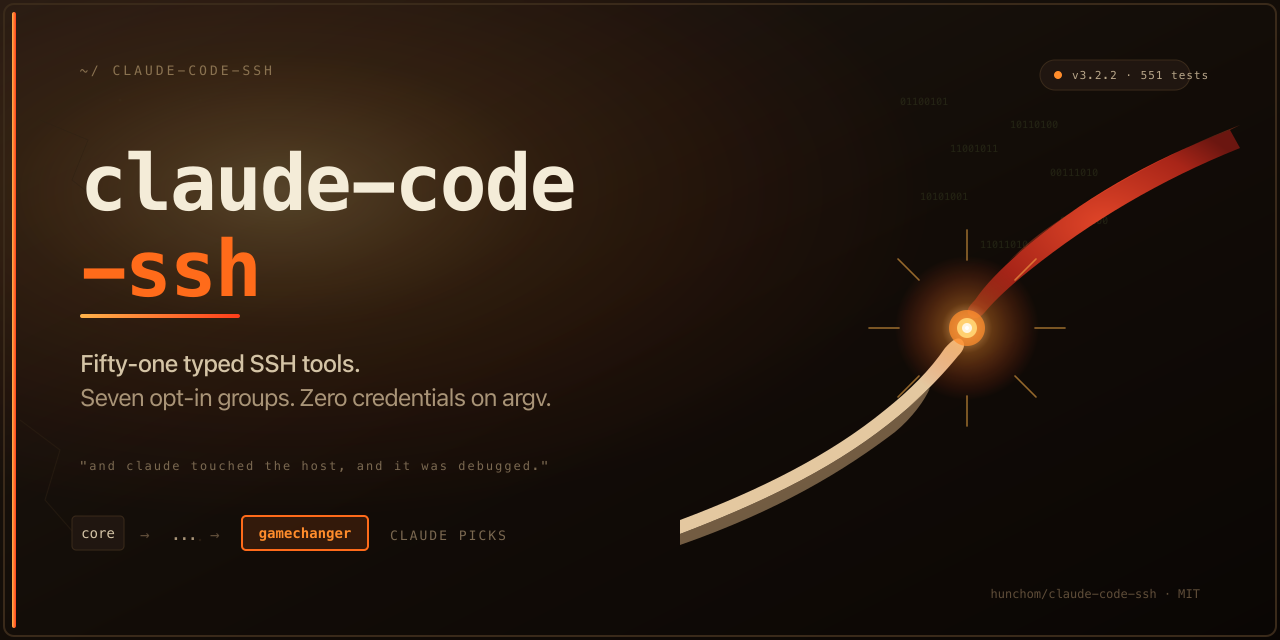
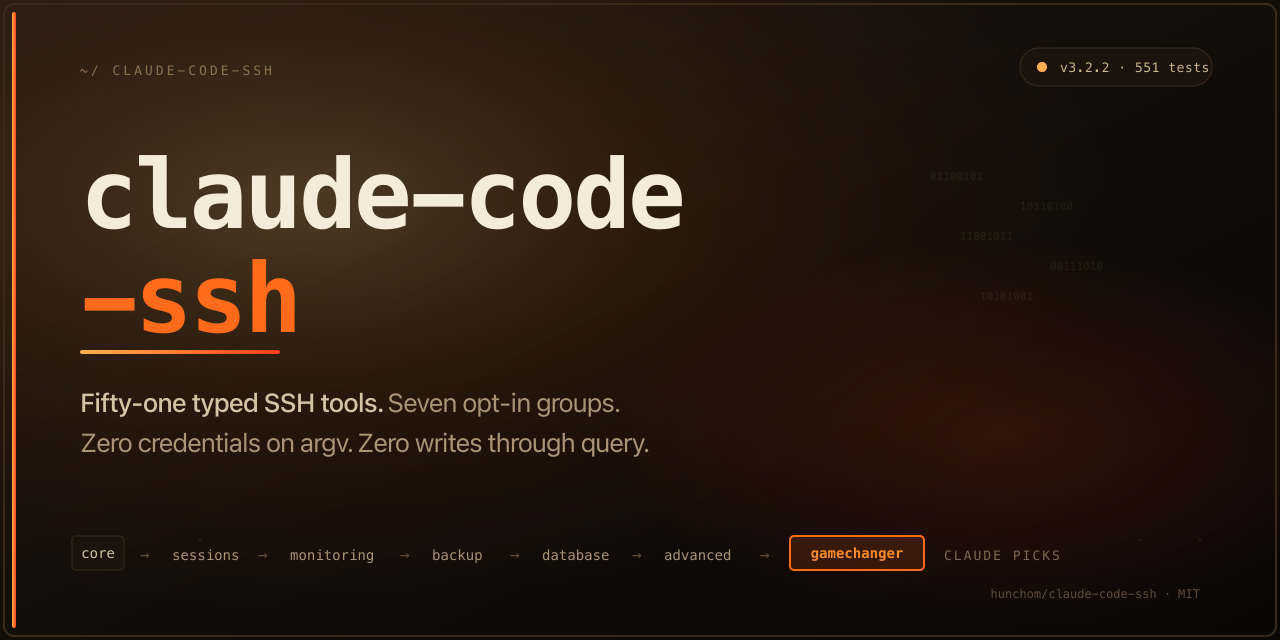
hero: painting becomes the README hero, typographic SVG demoted to social-preview only
The Sistine-Chapel-style Clawd painting (assets/repo-image.png) is now the
opening visual at 920px wide. Repo title and tagline live below it as a
clean centered H1 + em block. Badge accent color shifted from green to
ember-orange (#FF6B1A) so they match the title art, not fight it.

Removed the duplicate painting from the Why section (it's already up top).
Removed the typographic hero.svg from the README header — it competed
with the painting and the user called the composition awkward.

The redesigned hero.svg (warm charcoal, no awkward finger paths, properly
sized status pill, confident 96px title) is now used solely as the 1280x640
social-preview asset for link unfurls on Twitter/Slack where the painting's
3:2 aspect would be cropped weirdly. social-preview.png updated to match.

diff --git a/README.md b/README.md
@@ -1,12 +1,18 @@
 <p align="center">
-  <img src="assets/hero.svg" alt="claude-code-ssh" width="900" />
+  <img src="assets/repo-image.png" alt="claude-code-ssh — the operator reaches for the machine" width="920" />
+</p>
+
+<h1 align="center">claude-code-ssh</h1>
+
+<p align="center">
+  <em>Fifty-one typed SSH tools. Seven opt-in groups. Zero credentials on argv.</em>
 </p>
 
 <p align="center">
   <a href="https://github.com/hunchom/claude-code-ssh/actions/workflows/test.yml"><img src="https://github.com/hunchom/claude-code-ssh/actions/workflows/test.yml/badge.svg" alt="tests"/></a>
-  <a href="https://github.com/hunchom/claude-code-ssh/releases"><img src="https://img.shields.io/github/v/tag/hunchom/claude-code-ssh?label=version&style=flat-square" alt="version"/></a>
-  <img src="https://img.shields.io/badge/tools-51-brightgreen?style=flat-square" alt="51 tools" />
-  <img src="https://img.shields.io/badge/node-%E2%89%A518-339933?style=flat-square" alt="node 18+" />
+  <a href="https://github.com/hunchom/claude-code-ssh/releases"><img src="https://img.shields.io/github/v/tag/hunchom/claude-code-ssh?label=version&style=flat-square&color=FF6B1A" alt="version"/></a>
+  <img src="https://img.shields.io/badge/tools-51-FF6B1A?style=flat-square" alt="51 tools" />
+  <img src="https://img.shields.io/badge/node-%E2%89%A518-informational?style=flat-square" alt="node 18+" />
   <a href="https://github.com/hunchom/claude-code-ssh/blob/main/LICENSE"><img src="https://img.shields.io/badge/license-MIT-informational?style=flat-square" alt="MIT"/></a>
 </p>
 
@@ -27,10 +33,6 @@
 </p>
 
 ## Why
-
-<p align="center">
-  <img src="assets/repo-image.png" alt="operator directs the machine" width="560" />
-</p>
 
 Without an MCP, fleet ops through Claude looks like this:
 
